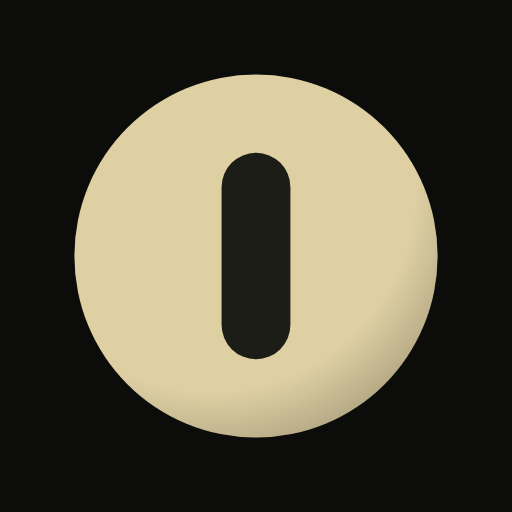
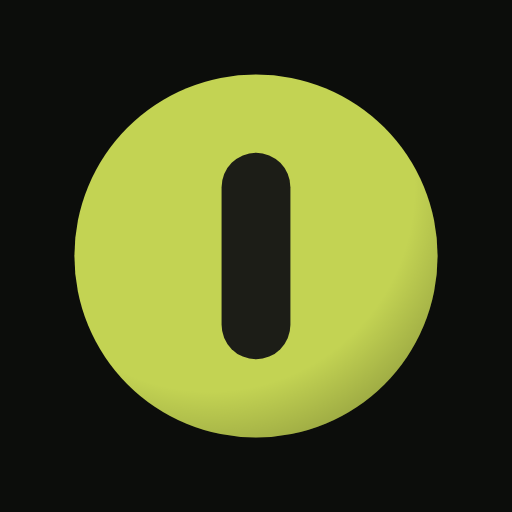
The mark in the wordmark is green
Held as its own literal rather than pointed at --block-lime, for the reason
--sand is held apart from --face-3: they are not one decision. Lime means
Today wherever the tab colours are read, and the mark is the one thing on
screen that does not change with the tab — so the day that scale is recut,
that lime moves and this one does not.

Everything downstream already follows the token: the plate the mark wears in
flight, and build-icon, which reads the two colours off the page and picks
the icon's ground from the body's luminance.

Claude-Session: https://claude.ai/code/session_01SFZMYfUDUFoQTayH9wHqur

diff --git a/index.html b/index.html
@@ -26,8 +26,8 @@
 <!-- The mark itself: a full-bleed lime field with the two eyes on it. Full bleed
      because iOS rounds the corners of a home-screen icon for you, and rounding them
      here as well would inset the plate inside its own rounding. -->
[4 lines of base64/hex data omitted]
 <!-- THE FONT DOES NOT HOLD THE PAGE UP ANY MORE.
      It was pulled by @import from inside the stylesheet, which is the slowest way there is
      to load one: discovered only after the CSS has parsed, render-blocking once it is, and
@@ -181,14 +181,19 @@
        FROM, and the drop is painted as black at an alpha over whatever turned up. Set the
        shell to something light and the limb still darkens, which is what a limb does.
 
-       SAND, AND WHY NOT ONE OF THE FIVE. The mark is the one thing on screen that does not
-       change with the tab, so it cannot wear a colour that means something somewhere else.
-       Each of the five blocks owns a tab — lime is Today, and a lime mark would read as Today
-       on the other four — and orange is a rating. Sand is the only hue in the palette that
-       owns nothing, which is what it was carved out to be. The header band is a dark pocket
-       on BOTH grounds, so one value covers both themes rather than needing a bone variant.
-       The knockout goes ink, because a cream eye in a sand body is not a hole. */
-    --mark-shell:var(--sand);
+       GREEN, AND WHY IT IS NOT var(--block-lime). The same value the lime block carries, held
+       here as its own literal rather than pointed at that token, for the reason --sand is held
+       apart from --face-3: they are not one decision. Lime means Today wherever the tab
+       colours are read, and the mark is the one thing on screen that does NOT change with the
+       tab — so the day the rating or tab scale is recut, that lime moves and this one does
+       not. The cost of sharing the value is that on the other four tabs the mark is wearing
+       Today's hue; the mark is a wordmark rather than a state, and at 38px beside DOG FOOD it
+       reads as the logo, but that is the tension to watch if the tab colours ever get louder.
+
+       The header band is a dark pocket on BOTH grounds, so one value covers both themes rather
+       than needing a bone variant. The knockout goes ink: a cream eye in a green body is not
+       a hole. */
+    --mark-shell:#c3d353;
     --mark-ink:#1c1d17;
     /* Sand. The same value --face-3 carries as a rating, named separately because this is not
        one: a token used for its hue has no business reading as "ok" wherever it turns up. If
@@ -9000,7 +9005,7 @@ recoveryFieldIds.forEach(id=>{ document.getElementById(id).addEventListener('inp
    aggressively, and GitHub Pages serves index.html with its own cache headers on top.
    Neither is under this app's control, and a plain reload will often re-serve the cached
    document rather than fetching a new one. */
-const APP_VERSION = '2026.08.31.379';
+const APP_VERSION = '2026.08.31.380';
 /* What moved, in one line, for the builds worth naming. The banner has always been able to
    say a new version is available and never what is in it, which asks for a reload on faith.
    Only the current build needs an entry — anything older has already been read or missed. */
@@ -9145,6 +9150,7 @@ const APP_NOTES = {
   '2026.08.31.377': 'The trend metrics fit the screen \u2014 three to a row, two rows.',
   '2026.08.31.378': 'The mark is a sphere with one eye now, in the wordmark and beside the score.',
   '2026.08.31.379': 'The mark in the wordmark is sand rather than ink.',
+  '2026.08.31.380': 'The mark in the wordmark is green.',
 };
 
 /* Registration is optional in the sense that it degrades quietly — but it was optional in
